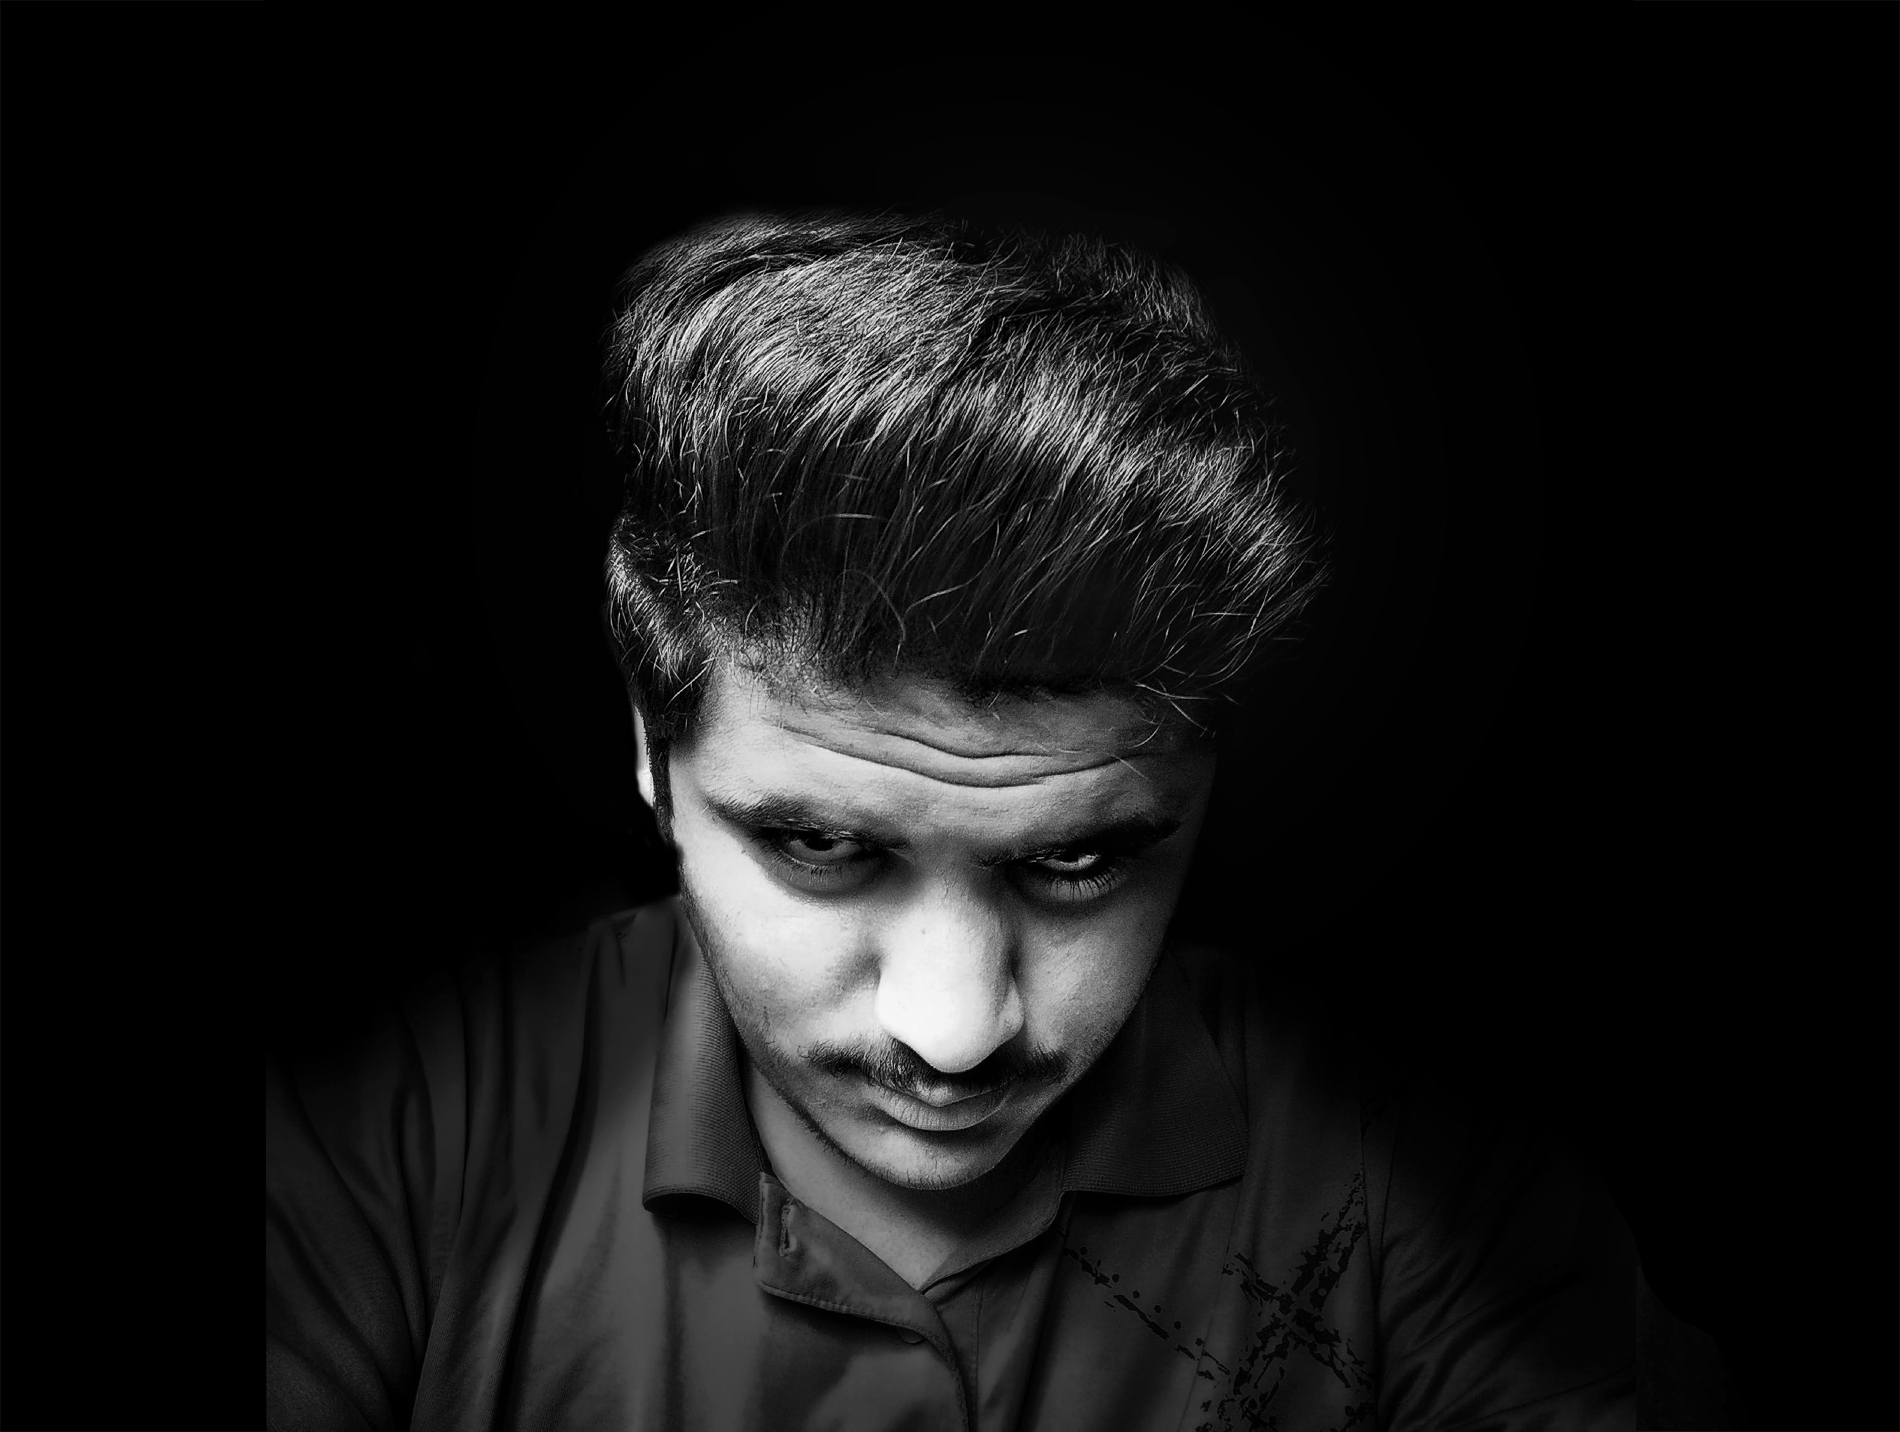
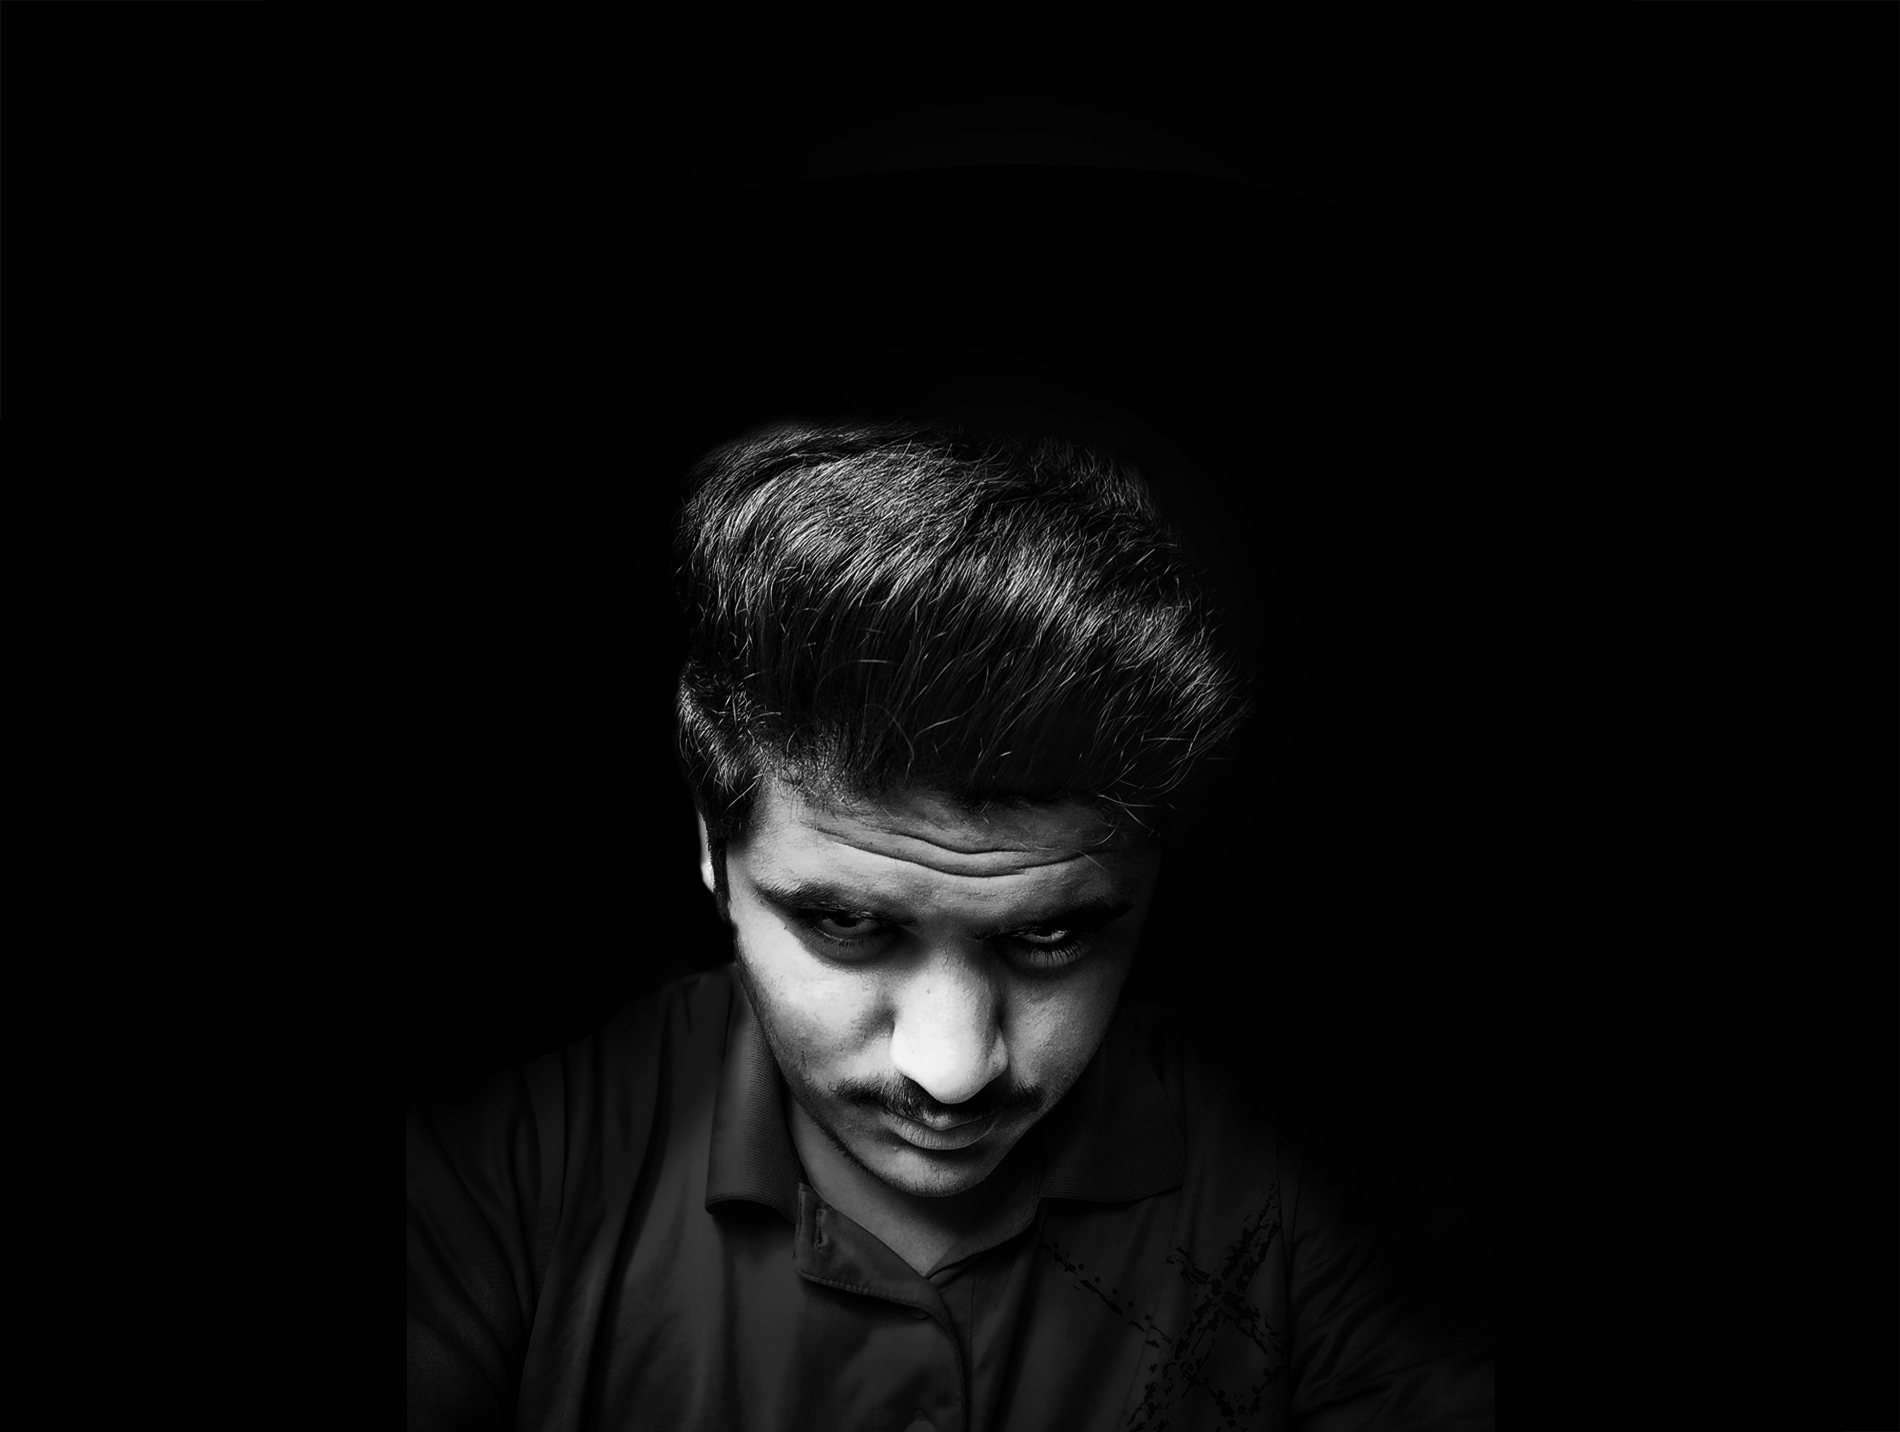
final files added

Changed region(s): [[0.1242, 0.1536, 0.7453, 1.0], [0.8074, 0.9832, 0.8384, 1.0], [0.6521, 0.7682, 0.6832, 0.7989]]

diff --git a/portfolio-wya.html b/portfolio-wya.html
@@ -118,10 +118,10 @@
               <div class="col-12 mb-4">
                 <div class="owl-carousel single-slider">
                   <figure class="mb-4">
-                    <img src="images/wya_ss.JPG" alt="Image" class="img-fluid">
+                    <img src="images/wya1.jpg" alt="Image" class="img-fluid">
                   </figure>
                   <figure class="mb-4">
-                    <img src="images/wya_ss.JPG" alt="Image" class="img-fluid">
+                    <img src="images/wya2.png" alt="Image" class="img-fluid">
                   </figure>
                 </div>
               </div>
@@ -130,34 +130,34 @@
                   <div class="col-sm-6 col-md-6 col-lg-3">
                     <div class="detail-v1">
                       <span class="detail-label">Project Date</span>
-                      <span class="detail-val">Nov 12th, 2018</span>
-                    </div>
-                  </div>
-                  <div class="col-sm-6 col-md-6 col-lg-3">
-                    <div class="detail-v1">
-                      <span class="detail-label">Role</span>
-                      <span class="detail-val"><a href="#">Owner, Founder</a>, <a href="#">Developer</a></span>
-                    </div>
-                  </div>
-                  <div class="col-sm-6 col-md-6 col-lg-3">
-                    <div class="detail-v1">
-                      <span class="detail-label">Client</span>
                       <span class="detail-val">N/A</span>
                     </div>
                   </div>
                   <div class="col-sm-6 col-md-6 col-lg-3">
                     <div class="detail-v1">
+                      <span class="detail-label">Role</span>
+                      <span class="detail-val"><a href="#">Designer</a>
+                    </div>
+                  </div>
+                  <div class="col-sm-6 col-md-6 col-lg-3">
+                    <div class="detail-v1">
+                      <span class="detail-label">Client</span>
+                      <span class="detail-val">World Youth Alliance, Nepal Chapter</span>
+                    </div>
+                  </div>
+                  <div class="col-sm-6 col-md-6 col-lg-3">
+                    <div class="detail-v1">
                       <span class="detail-label">Visit</span>
-                      <span class="detail-val"><a href="https://play.google.com/store/apps/details?id=com.forkhakitech.guidetotermux">Download Now</a></span>
+                      <span class="detail-val"><a href="https://www.facebook.com/World-Youth-Alliance-Nepal-246697502786982" target="_blank">Follow</a></span>
                     </div>
                   </div>
                 </div>
               </div>
               <div class="col-md-6 pr-md-5">
-                <p>A tool that is focused to provide tutorials related to termux from zero level to hero level.</p>
+                <p>A renowned An international non-governmental organization (INGO), Nepal Chapter.</p>
               </div>
               <div class="col-md-6 pl-md-5">
-                <p>This app contains video guides, Codes and other related to termux mobile app that is a linux simulator for android.</p>
+                <p>Designed some logos and some banners as per requirement. And final result are in above pictures.</p>
               </div>
             </div>
 

diff --git a/index.html b/index.html
@@ -9,6 +9,8 @@
     <meta name="keywords" content="Krishna Adhikari, Iamkrishnaa">
     <meta name="author" content="">
 
+    
+    <link rel='icon' href='images/favicon.png' type='imag/x-icon'>
     <link rel="stylesheet" href="css/vendor/icomoon/style.css">
     <link rel="stylesheet" href="css/vendor/owl.carousel.min.css">
     <link rel="stylesheet" href="css/vendor/animate.min.css">
@@ -84,7 +86,7 @@
       </nav>
       <!-- END nav -->
 
-      <div class="cover-v1 jarallax" style="background-image: url('images/cover_bg_2.jpeg');" id="home-section">
+      <div class="cover-v1 jarallax" style="background-image: url('images/cover_bg.jpg');" id="home-section">
         <div class="container">
           <div class="row align-items-center">
               
@@ -174,6 +176,21 @@
                   </a>
               </div>
 
+              <div class="item designing web application col-sm-6 col-md-6 col-lg-4 isotope-mb-2">
+
+                <a href="portfolio-ifrs.html" class="portfolio-item ajax-load-page isotope-item gsap-reveal-img" data-id="6">
+                    <div class="overlay">
+                      <span class="wrap-icon icon-photo2"></span>
+                      <div class="portfolio-item-content">
+                        <h3>IFRS Accounting</h3>
+                        <p>App Development</p>
+                      </div>
+                    </div>
+                    <img src="images/ifrs_ss.JPG" class="lazyload  img-fluid" alt="Images" />
+                  </a>
+
+              </div>
+              
               <div class="item designing col-sm-6 col-md-6 col-lg-4 isotope-mb-2">
 
                 <a href="portfolio-wya.html" class="portfolio-item ajax-load-page isotope-item gsap-reveal-img" data-id="4">
@@ -201,23 +218,7 @@
                     <img src="images/notes_ss.JPG" class="lazyload  img-fluid" alt="Images" />
                   </a>
 
-              </div>
-
-            
-              <div class="item designing web application col-sm-6 col-md-6 col-lg-4 isotope-mb-2">
-
-                <a href="portfolio-ifrs.html" class="portfolio-item ajax-load-page isotope-item gsap-reveal-img" data-id="6">
-                    <div class="overlay">
-                      <span class="wrap-icon icon-photo2"></span>
-                      <div class="portfolio-item-content">
-                        <h3>IFRS Accounting</h3>
-                        <p>App Development</p>
-                      </div>
-                    </div>
-                    <img src="images/ifrs_ss.JPG" class="lazyload  img-fluid" alt="Images" />
-                  </a>
-
-              </div>
+                </div>
 
             </div>
             
@@ -263,7 +264,7 @@
           <div class="row mt-5 justify-content-between">
             <div class="col-lg-7 mb-5 mb-lg-0">
               <figure class="dotted-bg gsap-reveal-img ">
-                <img src="images/cover_bg.jpg" alt="Image" class="img-fluid">
+                <img src="images/about_img.jpeg" alt="Image" class="img-fluid">
               </figure>
             </div>
             <div class="col-lg-4 pr-lg-5">

diff --git a/portfolio-notesofcomputer.html b/portfolio-notesofcomputer.html
@@ -130,13 +130,13 @@
                   <div class="col-sm-6 col-md-6 col-lg-3">
                     <div class="detail-v1">
                       <span class="detail-label">Project Date</span>
-                      <span class="detail-val">Nov 12th, 2018</span>
+                      <span class="detail-val">2020</span>
                     </div>
                   </div>
                   <div class="col-sm-6 col-md-6 col-lg-3">
                     <div class="detail-v1">
                       <span class="detail-label">Role</span>
-                      <span class="detail-val"><a href="#">Owner, Founder</a>, <a href="#">Developer</a></span>
+                      <span class="detail-val"><a href="#">App Developer</a></span>
                     </div>
                   </div>
                   <div class="col-sm-6 col-md-6 col-lg-3">
@@ -148,16 +148,16 @@
                   <div class="col-sm-6 col-md-6 col-lg-3">
                     <div class="detail-v1">
                       <span class="detail-label">Visit</span>
-                      <span class="detail-val"><a href="https://play.google.com/store/apps/details?id=com.forkhakitech.guidetotermux">Download Now</a></span>
+                      <span class="detail-val"><a href="https://play.google.com/store/apps/details?id=com.forkhaki.notes_of_computer" target="_blank">Download Now</a></span>
                     </div>
                   </div>
                 </div>
               </div>
               <div class="col-md-6 pr-md-5">
-                <p>A tool that is focused to provide tutorials related to termux from zero level to hero level.</p>
+                <p>An app that will provide notes of subject computer from grade 4 to 10 through school teacher.</p>
               </div>
               <div class="col-md-6 pl-md-5">
-                <p>This app contains video guides, Codes and other related to termux mobile app that is a linux simulator for android.</p>
+                <p>This app contains sections for notes and notice. Notes will be provided from 4 to 10. Notice about classes will also be provided.</p>
               </div>
             </div>
 

diff --git a/portfolio-ifrs.html b/portfolio-ifrs.html
@@ -130,13 +130,13 @@
                   <div class="col-sm-6 col-md-6 col-lg-3">
                     <div class="detail-v1">
                       <span class="detail-label">Project Date</span>
-                      <span class="detail-val">Nov 12th, 2018</span>
+                      <span class="detail-val">June, 2020</span>
                     </div>
                   </div>
                   <div class="col-sm-6 col-md-6 col-lg-3">
                     <div class="detail-v1">
                       <span class="detail-label">Role</span>
-                      <span class="detail-val"><a href="#">Owner, Founder</a>, <a href="#">Developer</a></span>
+                      <span class="detail-val"><a href="#">App Developer</a></span>
                     </div>
                   </div>
                   <div class="col-sm-6 col-md-6 col-lg-3">
@@ -148,16 +148,16 @@
                   <div class="col-sm-6 col-md-6 col-lg-3">
                     <div class="detail-v1">
                       <span class="detail-label">Visit</span>
-                      <span class="detail-val"><a href="https://play.google.com/store/apps/details?id=com.forkhakitech.guidetotermux">Download Now</a></span>
+                      <span class="detail-val"><a href="https://play.google.com/store/apps/details?id=com.forkhaki.ifrs_accounting" target="_blank">Download Now</a></span>
                     </div>
                   </div>
                 </div>
               </div>
               <div class="col-md-6 pr-md-5">
-                <p>A tool that is focused to provide tutorials related to termux from zero level to hero level.</p>
+                <p>A tool that is focused to provide knowledge related to IFRS Accounting from zero level to hero level.</p>
               </div>
               <div class="col-md-6 pl-md-5">
-                <p>This app contains video guides, Codes and other related to termux mobile app that is a linux simulator for android.</p>
+                <p>This app contains Detailed Descriptions about IFRS accounting which is further catagorized in simpler context..</p>
               </div>
             </div>
 

diff --git a/portfolio-iysnepal.html b/portfolio-iysnepal.html
@@ -130,25 +130,25 @@
                   <div class="col-sm-6 col-md-6 col-lg-3">
                     <div class="detail-v1">
                       <span class="detail-label">Project Date</span>
-                      <span class="detail-val">Nov 12th, 2018</span>
-                    </div>
-                  </div>
-                  <div class="col-sm-6 col-md-6 col-lg-3">
-                    <div class="detail-v1">
-                      <span class="detail-label">Role</span>
-                      <span class="detail-val"><a href="#">Owner, Founder</a>, <a href="#">Developer</a></span>
-                    </div>
-                  </div>
-                  <div class="col-sm-6 col-md-6 col-lg-3">
-                    <div class="detail-v1">
-                      <span class="detail-label">Client</span>
                       <span class="detail-val">N/A</span>
                     </div>
                   </div>
                   <div class="col-sm-6 col-md-6 col-lg-3">
                     <div class="detail-v1">
+                      <span class="detail-label">Role</span>
+                      <span class="detail-val"><a href="#">SEO, Designing, IT Department Head</a></span>
+                    </div>
+                  </div>
+                  <div class="col-sm-6 col-md-6 col-lg-3">
+                    <div class="detail-v1">
+                      <span class="detail-label">Client</span>
+                      <span class="detail-val">International Youth Society, Nepal</span>
+                    </div>
+                  </div>
+                  <div class="col-sm-6 col-md-6 col-lg-3">
+                    <div class="detail-v1">
                       <span class="detail-label">Visit</span>
-                      <span class="detail-val"><a href="https://play.google.com/store/apps/details?id=com.forkhakitech.guidetotermux">Download Now</a></span>
+                      <span class="detail-val"><a href="https://www.facebook.com/International-Youth-Society-Nepal-534369053756819" target="_blank">Follow Us</a></span>
                     </div>
                   </div>
                 </div>

diff --git a/portfolio-agritech.html b/portfolio-agritech.html
@@ -130,13 +130,13 @@
                   <div class="col-sm-6 col-md-6 col-lg-3">
                     <div class="detail-v1">
                       <span class="detail-label">Project Date</span>
-                      <span class="detail-val">Nov 12th, 2018</span>
+                      <span class="detail-val">N/A</span>
                     </div>
                   </div>
                   <div class="col-sm-6 col-md-6 col-lg-3">
                     <div class="detail-v1">
                       <span class="detail-label">Role</span>
-                      <span class="detail-val"><a href="#">Owner, Founder</a>, <a href="#">Developer</a></span>
+                      <span class="detail-val"><a href="#">SEO & Tech Related</a></span>
                     </div>
                   </div>
                   <div class="col-sm-6 col-md-6 col-lg-3">
@@ -148,16 +148,16 @@
                   <div class="col-sm-6 col-md-6 col-lg-3">
                     <div class="detail-v1">
                       <span class="detail-label">Visit</span>
-                      <span class="detail-val"><a href="https://play.google.com/store/apps/details?id=com.forkhakitech.guidetotermux">Download Now</a></span>
+                      <span class="detail-val"><a href="agritechnepal.com" target="_blank">Visit Now</a></span>
                     </div>
                   </div>
                 </div>
               </div>
               <div class="col-md-6 pr-md-5">
-                <p>A tool that is focused to provide tutorials related to termux from zero level to hero level.</p>
+                <p>A site that will provide all related queries, methods and essentials for modern agriculture solutions.</p>
               </div>
               <div class="col-md-6 pl-md-5">
-                <p>This app contains video guides, Codes and other related to termux mobile app that is a linux simulator for android.</p>
+                <p>This app contains calculators for pesticides, seeds etc. Guide to plant different crops, and many more.</p>
               </div>
             </div>
 

diff --git a/portfolio-guidetotermux.html b/portfolio-guidetotermux.html
@@ -148,7 +148,7 @@
                   <div class="col-sm-6 col-md-6 col-lg-3">
                     <div class="detail-v1">
                       <span class="detail-label">Visit</span>
-                      <span class="detail-val"><a href="https://play.google.com/store/apps/details?id=com.forkhakitech.guidetotermux">Download Now</a></span>
+                      <span class="detail-val"><a href="https://play.google.com/store/apps/details?id=com.forkhakitech.guidetotermux" target="_blank">Download Now</a></span>
                     </div>
                   </div>
                 </div>
